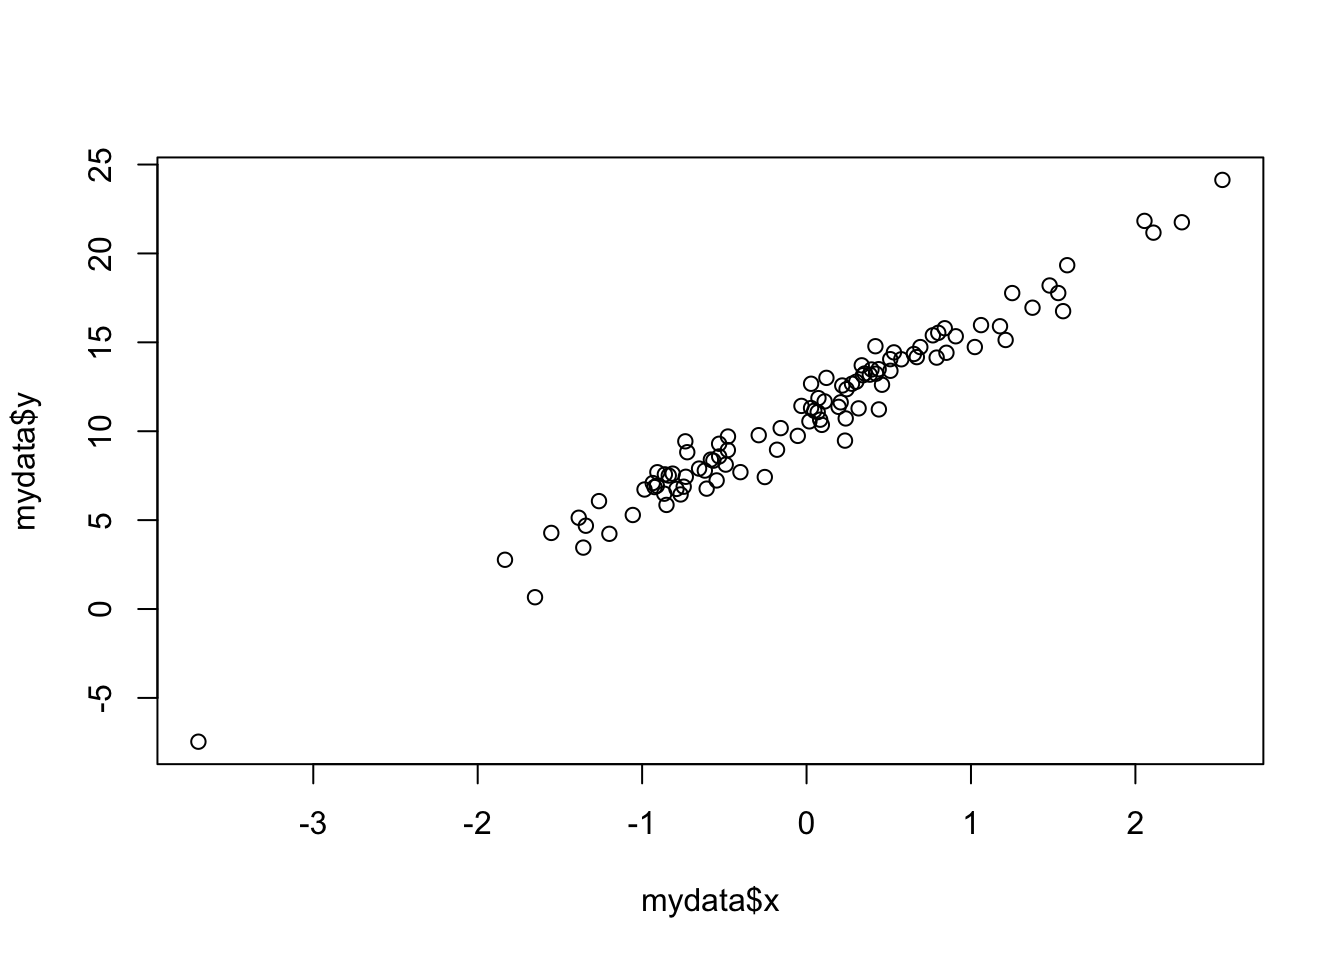
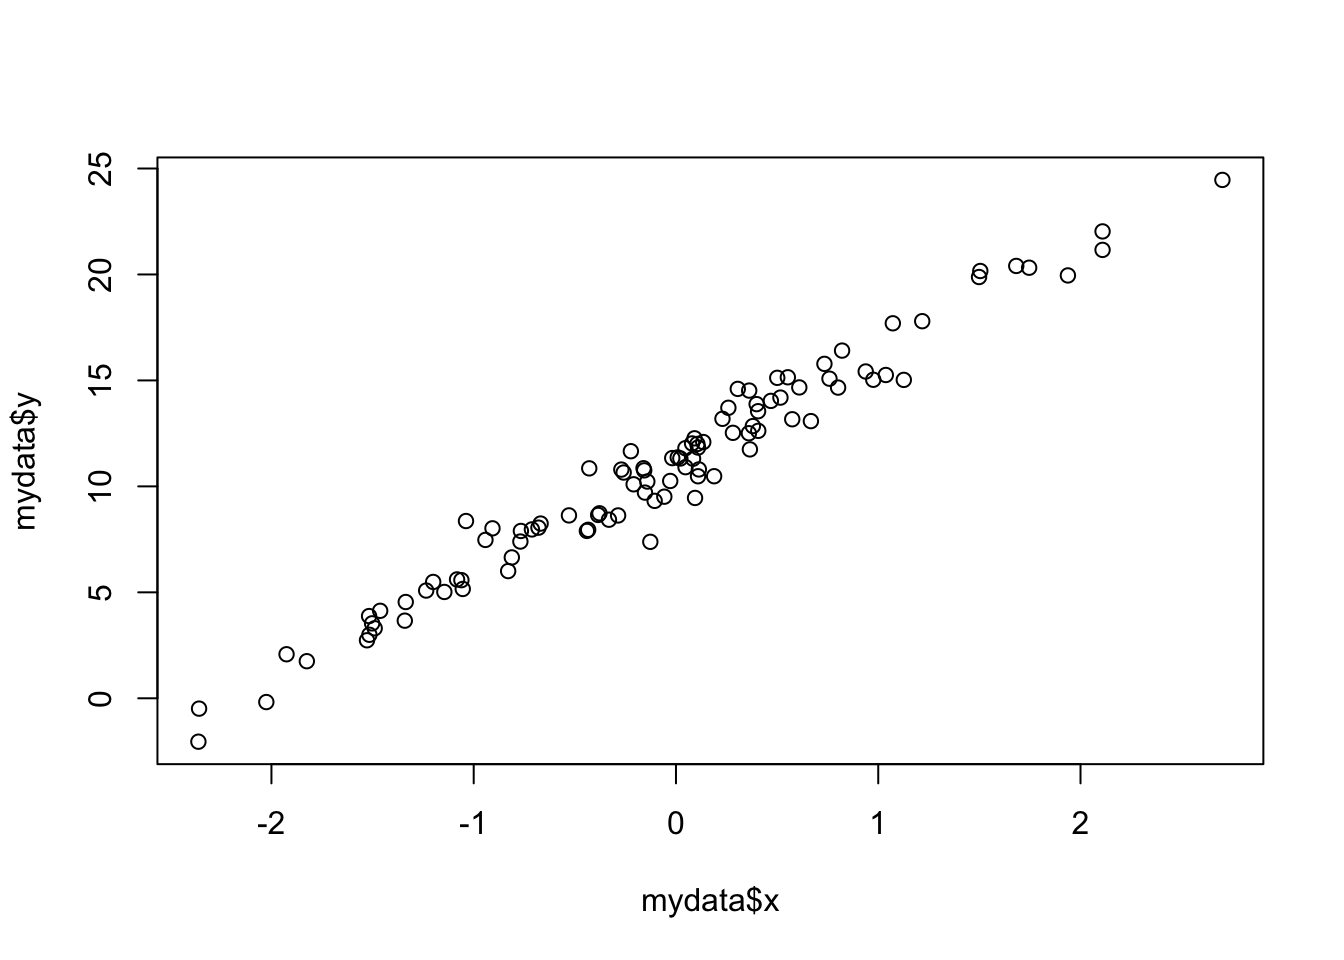
minor changes

diff --git a/public/week-1/index.html b/public/week-1/index.html
@@ -16,7 +16,11 @@
   <link rel="stylesheet" href="/css/syntax.css">
   <link rel="stylesheet" href="/css/hyde.css">
   <link rel="stylesheet" href="https://fonts.googleapis.com/css?family=Abril+Fatface|PT+Sans:400,400i,700">
-
+<link rel="stylesheet" href="/css/syntax.css">
+<script src="/js/highlight.pack.js"></script>
+ <script>
+   hljs.initHighlightingOnLoad();
+ </script>
   
   <link rel="apple-touch-icon-precomposed" sizes="144x144" href="/apple-touch-icon-144-precomposed.png">
   <link rel="shortcut icon" href="/favicon.png">
@@ -152,21 +156,21 @@ mydata$y = 5 * mydata$x + 11.0 + rnorm(100)
 # the expression after &quot;=&quot; just means that this y variable is populated by values that are
 # 5 * corresponding x + 11 + a value randomly sampled from a normal distribution
 summary(mydata) </code></pre>
-<pre><code>##        x                  y         
-##  Min.   :-3.69867   Min.   :-7.462  
-##  1st Qu.:-0.72770   1st Qu.: 7.604  
-##  Median : 0.07759   Median :11.190  
-##  Mean   : 0.01024   Mean   :11.000  
-##  3rd Qu.: 0.51537   3rd Qu.:14.075  
-##  Max.   : 2.52912   Max.   :24.135</code></pre>
+<pre><code>##        x                   y         
+##  Min.   :-2.361096   Min.   :-2.048  
+##  1st Qu.:-0.767346   1st Qu.: 7.898  
+##  Median :-0.004903   Median :10.825  
+##  Mean   :-0.085618   Mean   :10.700  
+##  3rd Qu.: 0.422408   3rd Qu.:13.919  
+##  Max.   : 2.701491   Max.   :24.462</code></pre>
 <pre class="r"><code>head(mydata) # you can see the first couple lines of your data frame - useful for seeing what kind of variables you have </code></pre>
-<pre><code>##             x         y
-## 1  0.27629650 12.670804
-## 2  0.65266378 14.343808
-## 3 -0.90723463  7.693949
-## 4  0.07234786 11.862076
-## 5 -0.03106847 11.424247
-## 6  1.21079648 15.131703</code></pre>
+<pre><code>##            x         y
+## 1  0.5530459 15.148174
+## 2  0.1886380 10.479221
+## 3 -0.3781382  8.730046
+## 4 -1.5023446  3.536059
+## 5  0.3056007 14.600113
+## 6  0.5747754 13.167168</code></pre>
 <pre class="r"><code>plot(x = mydata$x, y = mydata$y) # it&#39;s good to specify which data you want on the x axis and which to put on the y axis</code></pre>
 <p><img src="/week1_files/figure-html/unnamed-chunk-10-1.png" width="672" /></p>
 <p><em>Take me back to <a href="#toc">the beginning!</a></em></p>

diff --git a/content/week1.html b/content/week1.html
@@ -115,21 +115,21 @@ mydata$y = 5 * mydata$x + 11.0 + rnorm(100)
 # the expression after &quot;=&quot; just means that this y variable is populated by values that are
 # 5 * corresponding x + 11 + a value randomly sampled from a normal distribution
 summary(mydata) </code></pre>
-<pre><code>##        x                  y         
-##  Min.   :-3.69867   Min.   :-7.462  
-##  1st Qu.:-0.72770   1st Qu.: 7.604  
-##  Median : 0.07759   Median :11.190  
-##  Mean   : 0.01024   Mean   :11.000  
-##  3rd Qu.: 0.51537   3rd Qu.:14.075  
-##  Max.   : 2.52912   Max.   :24.135</code></pre>
+<pre><code>##        x                   y         
+##  Min.   :-2.361096   Min.   :-2.048  
+##  1st Qu.:-0.767346   1st Qu.: 7.898  
+##  Median :-0.004903   Median :10.825  
+##  Mean   :-0.085618   Mean   :10.700  
+##  3rd Qu.: 0.422408   3rd Qu.:13.919  
+##  Max.   : 2.701491   Max.   :24.462</code></pre>
 <pre class="r"><code>head(mydata) # you can see the first couple lines of your data frame - useful for seeing what kind of variables you have </code></pre>
-<pre><code>##             x         y
-## 1  0.27629650 12.670804
-## 2  0.65266378 14.343808
-## 3 -0.90723463  7.693949
-## 4  0.07234786 11.862076
-## 5 -0.03106847 11.424247
-## 6  1.21079648 15.131703</code></pre>
+<pre><code>##            x         y
+## 1  0.5530459 15.148174
+## 2  0.1886380 10.479221
+## 3 -0.3781382  8.730046
+## 4 -1.5023446  3.536059
+## 5  0.3056007 14.600113
+## 6  0.5747754 13.167168</code></pre>
 <pre class="r"><code>plot(x = mydata$x, y = mydata$y) # it&#39;s good to specify which data you want on the x axis and which to put on the y axis</code></pre>
 <p><img src="/week1_files/figure-html/unnamed-chunk-10-1.png" width="672" /></p>
 <p><em>Take me back to <a href="#toc">the beginning!</a></em></p>

diff --git a/public/404.html b/public/404.html
@@ -16,7 +16,11 @@
   <link rel="stylesheet" href="/css/syntax.css">
   <link rel="stylesheet" href="/css/hyde.css">
   <link rel="stylesheet" href="https://fonts.googleapis.com/css?family=Abril+Fatface|PT+Sans:400,400i,700">
-
+<link rel="stylesheet" href="/css/syntax.css">
+<script src="/js/highlight.pack.js"></script>
+ <script>
+   hljs.initHighlightingOnLoad();
+ </script>
   
   <link rel="apple-touch-icon-precomposed" sizes="144x144" href="/apple-touch-icon-144-precomposed.png">
   <link rel="shortcut icon" href="/favicon.png">

diff --git a/public/categories/index.html b/public/categories/index.html
@@ -16,7 +16,11 @@
   <link rel="stylesheet" href="/css/syntax.css">
   <link rel="stylesheet" href="/css/hyde.css">
   <link rel="stylesheet" href="https://fonts.googleapis.com/css?family=Abril+Fatface|PT+Sans:400,400i,700">
-
+<link rel="stylesheet" href="/css/syntax.css">
+<script src="/js/highlight.pack.js"></script>
+ <script>
+   hljs.initHighlightingOnLoad();
+ </script>
   
   <link rel="apple-touch-icon-precomposed" sizes="144x144" href="/apple-touch-icon-144-precomposed.png">
   <link rel="shortcut icon" href="/favicon.png">

diff --git a/public/index.html b/public/index.html
@@ -16,7 +16,11 @@
   <link rel="stylesheet" href="/css/syntax.css">
   <link rel="stylesheet" href="/css/hyde.css">
   <link rel="stylesheet" href="https://fonts.googleapis.com/css?family=Abril+Fatface|PT+Sans:400,400i,700">
-
+<link rel="stylesheet" href="/css/syntax.css">
+<script src="/js/highlight.pack.js"></script>
+ <script>
+   hljs.initHighlightingOnLoad();
+ </script>
   
   <link rel="apple-touch-icon-precomposed" sizes="144x144" href="/apple-touch-icon-144-precomposed.png">
   <link rel="shortcut icon" href="/favicon.png">

diff --git a/public/tags/index.html b/public/tags/index.html
@@ -16,7 +16,11 @@
   <link rel="stylesheet" href="/css/syntax.css">
   <link rel="stylesheet" href="/css/hyde.css">
   <link rel="stylesheet" href="https://fonts.googleapis.com/css?family=Abril+Fatface|PT+Sans:400,400i,700">
-
+<link rel="stylesheet" href="/css/syntax.css">
+<script src="/js/highlight.pack.js"></script>
+ <script>
+   hljs.initHighlightingOnLoad();
+ </script>
   
   <link rel="apple-touch-icon-precomposed" sizes="144x144" href="/apple-touch-icon-144-precomposed.png">
   <link rel="shortcut icon" href="/favicon.png">

diff --git a/public/week-3/index.html b/public/week-3/index.html
@@ -16,7 +16,11 @@
   <link rel="stylesheet" href="/css/syntax.css">
   <link rel="stylesheet" href="/css/hyde.css">
   <link rel="stylesheet" href="https://fonts.googleapis.com/css?family=Abril+Fatface|PT+Sans:400,400i,700">
-
+<link rel="stylesheet" href="/css/syntax.css">
+<script src="/js/highlight.pack.js"></script>
+ <script>
+   hljs.initHighlightingOnLoad();
+ </script>
   
   <link rel="apple-touch-icon-precomposed" sizes="144x144" href="/apple-touch-icon-144-precomposed.png">
   <link rel="shortcut icon" href="/favicon.png">
